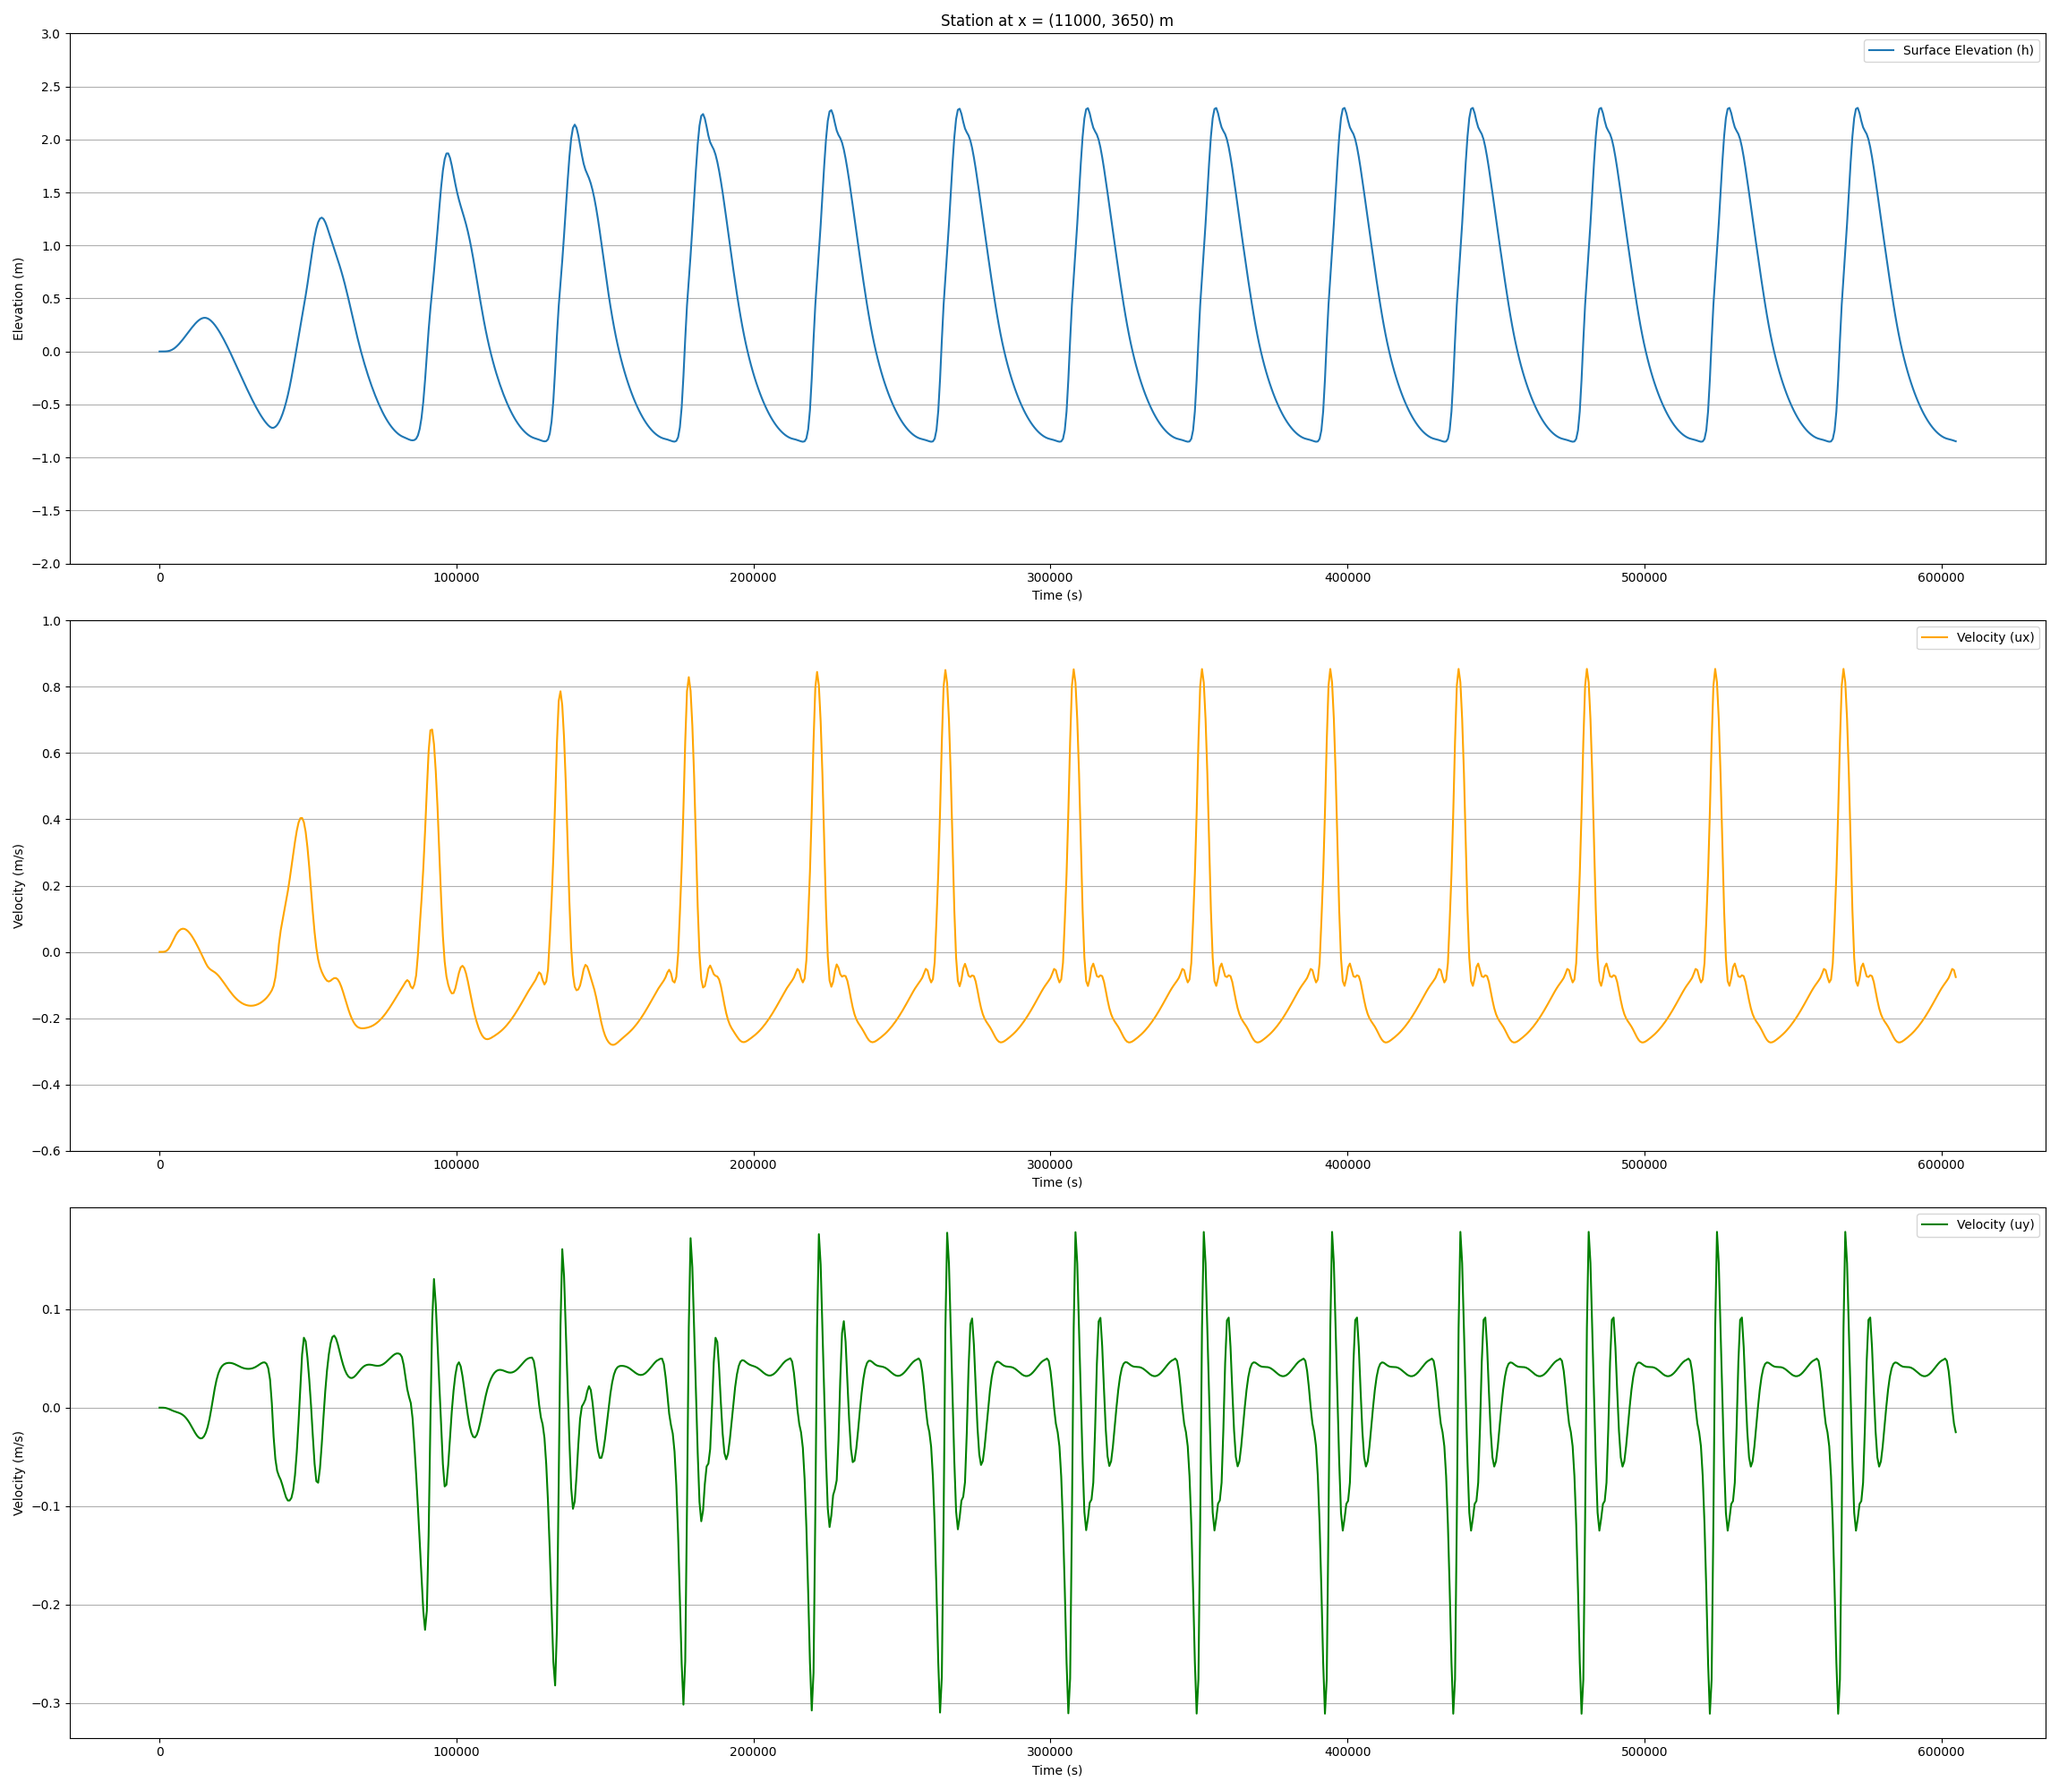
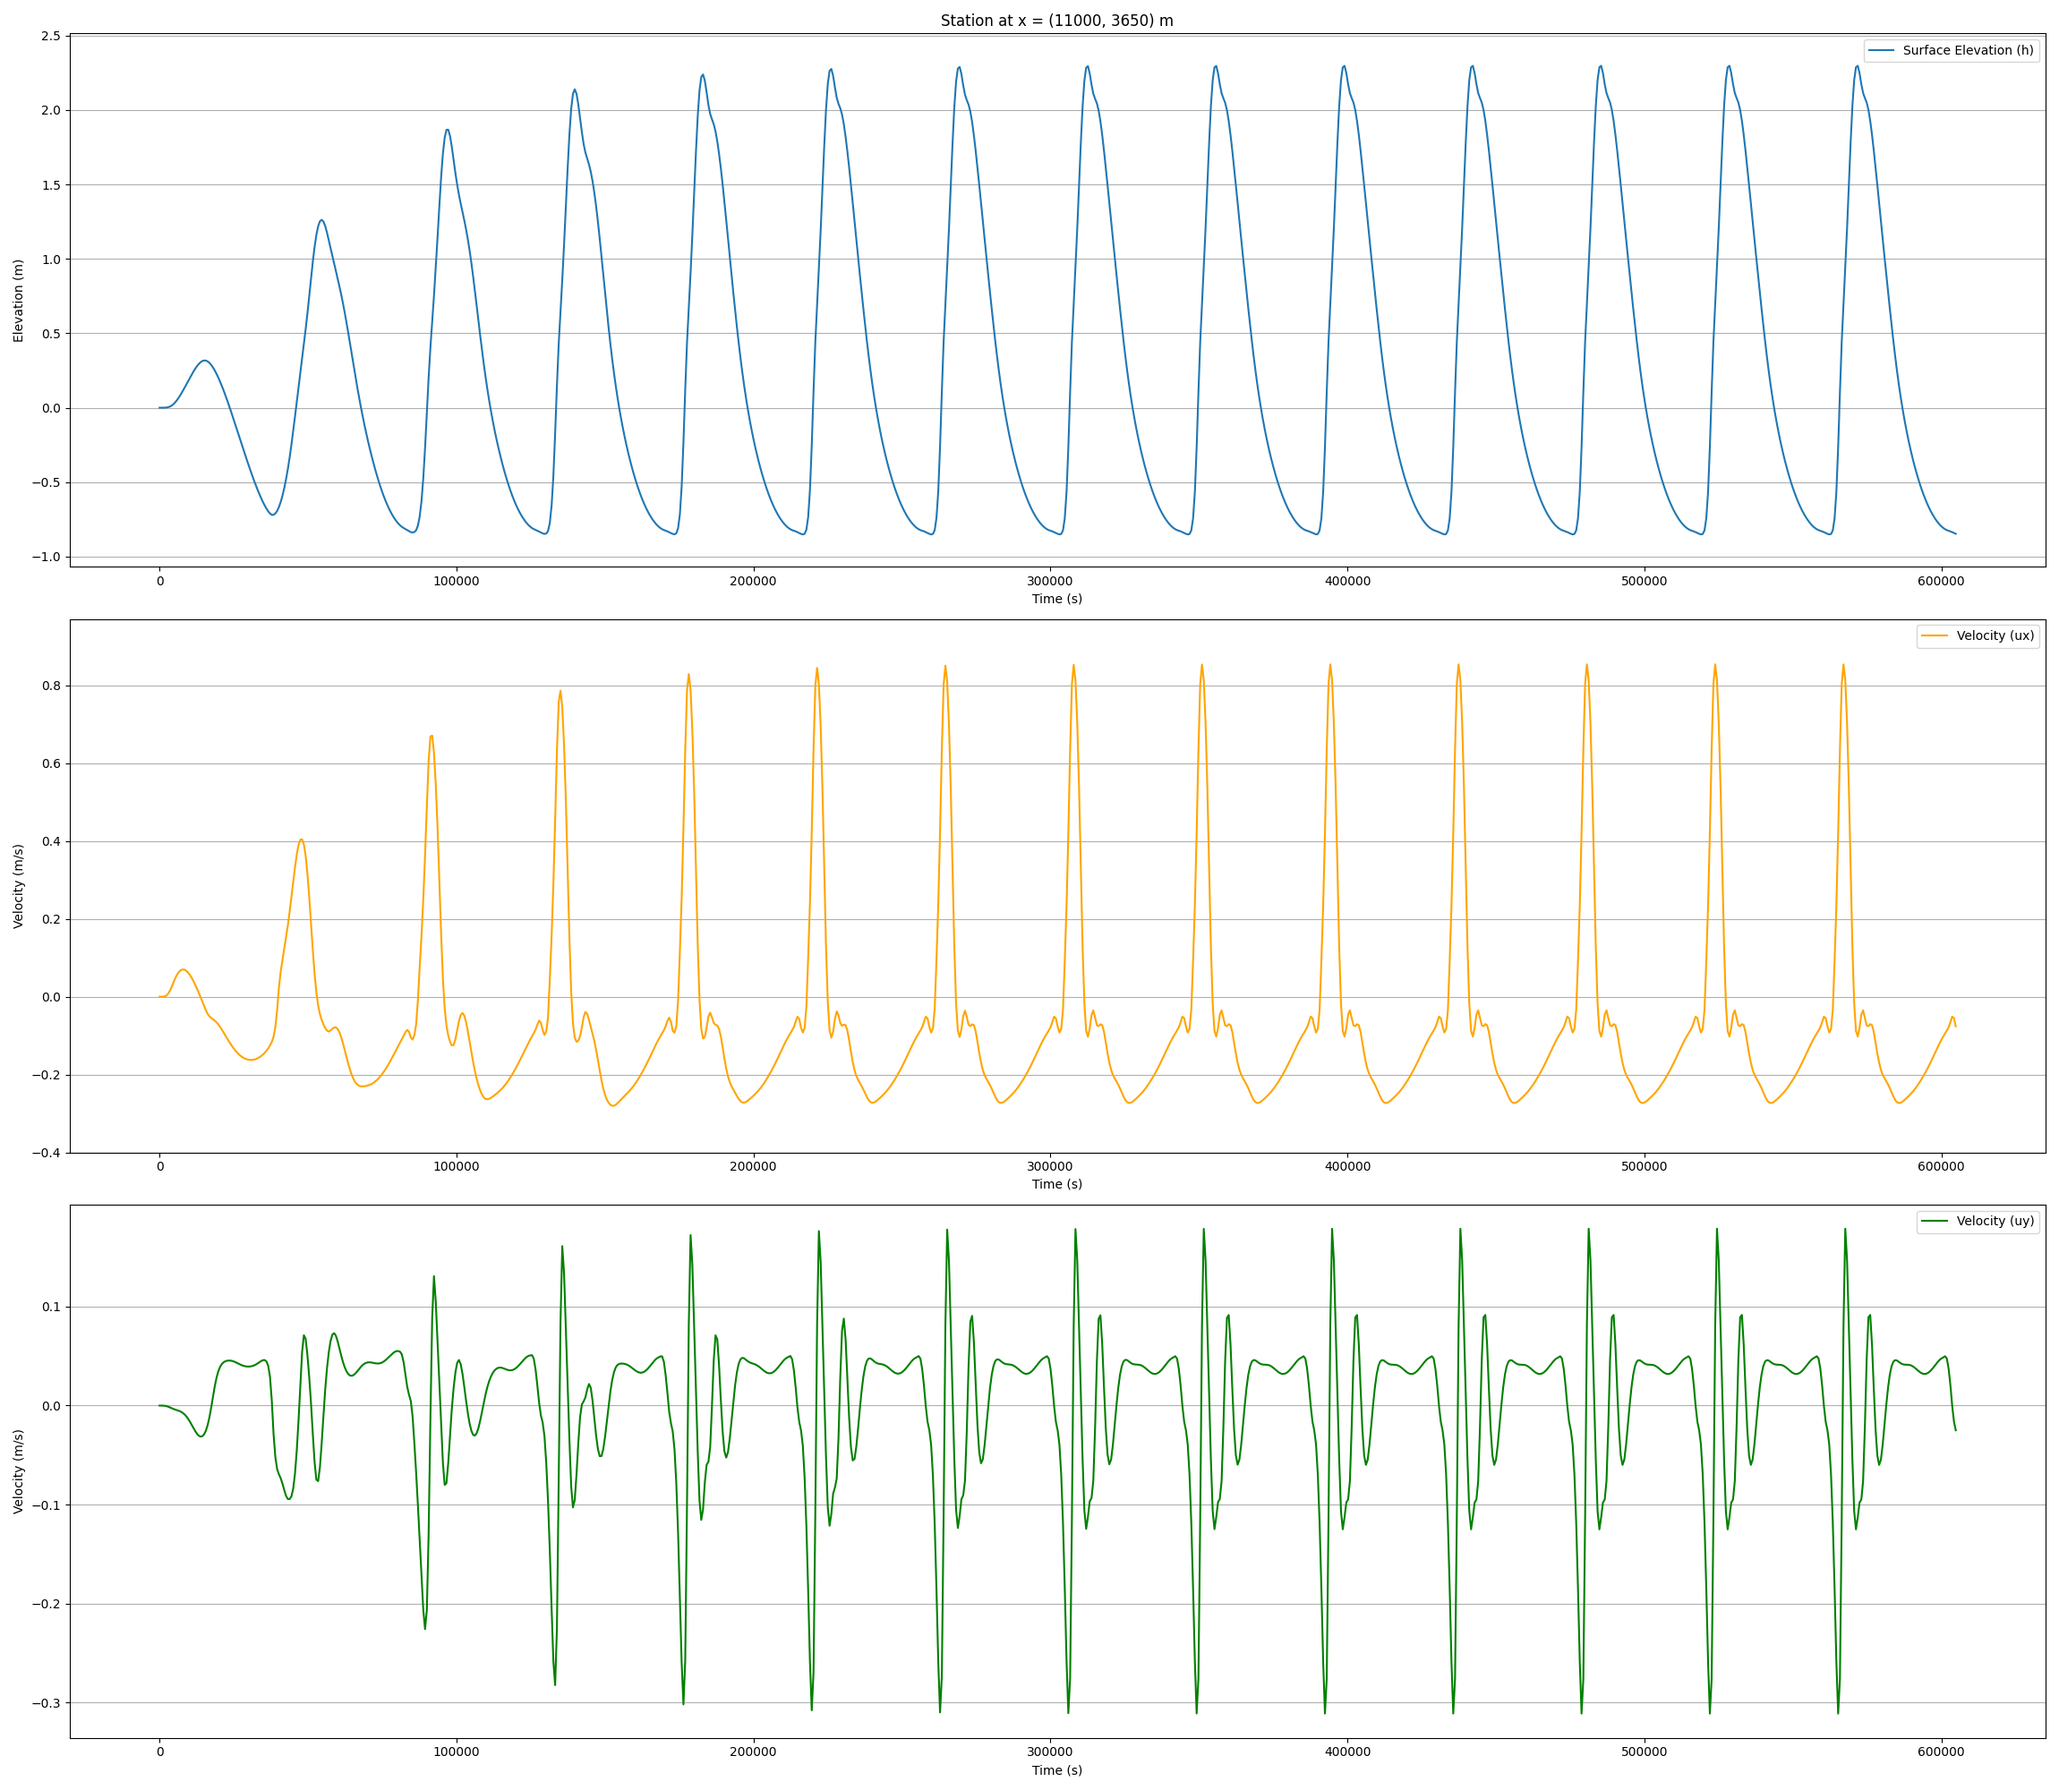
Updated wetdry cg plotting.py and corr images with new ticks

diff --git a/SWEs_2D_SlopedBeachProblem_SWEmniCS_CG/plotting.py b/SWEs_2D_SlopedBeachProblem_SWEmniCS_CG/plotting.py
@@ -2,49 +2,156 @@ import matplotlib.pyplot as plt
 import numpy as np
 
 def plot_station_timeseries(time_series_data, station_coords):
-    print('Creating stations images')
-    # Plot time series for each station
+    """
+    Plots time series data for water surface elevation and velocity components
+    at specified station locations.
+
+    Parameters:
+    - time_series_data: Dictionary containing time series data for each station.
+      Expected format: 
+      {
+        coord1: {"time": [...], "h": [...], "ux": [...], "uy": [...]},
+        coord2: {...}, 
+        ...
+      }
+    - station_coords: List of x-coordinates where data is recorded.
+
+    Saves each station's time series as a PNG image.
+    """
+
+    print('Creating station time series plots')
+
+    # Iterate through each station coordinate
     for coord in station_coords:
         plt.figure(figsize=(23, 20))
+        if coord == (9000, 3650):
+            # Plot surface elevation (h)
+            plt.subplot(3, 1, 1)
+            plt.plot(time_series_data[coord]["time"], time_series_data[coord]["h"], label="Surface Elevation (h)")
+            plt.title(f"Station at x = {coord} m")
+            plt.xlabel("Time (s)")
+            plt.ylabel("Elevation (m)")
+            # plt.yticks(np.arange(np.floor(min(time_series_data[coord]["h"])), 
+            #                      np.ceil(max(time_series_data[coord]["h"])), 0.5))  # Set y-ticks at 0.5 intervals
+            y_min, y_max = plt.ylim()
+            plt.ylim(y_min-0.06, y_max+0.06)
+            plt.yticks(np.arange(-1.5, 3.0, 0.5))
+            plt.grid(axis='y')  # Add grid lines on y-axis
+            plt.legend()
+    
+            # Plot velocity in x-direction (ux)
+            plt.subplot(3, 1, 2)
+            plt.plot(time_series_data[coord]["time"], time_series_data[coord]["ux"], label="Velocity (ux)", color="orange")
+            plt.xlabel("Time (s)")
+            plt.ylabel("Velocity (m/s)")
+            # plt.yticks(np.arange(np.floor(min(time_series_data[coord]["ux"])) + 0.4, 
+            #                      np.ceil(max(time_series_data[coord]["ux"])) + 0.1, 0.2))  # Set y-ticks at 0.2 intervals
+            y_min, y_max = plt.ylim()
+            plt.ylim(y_min-0.06, y_max+0.06)
+            plt.yticks(np.arange(-0.4, 1, 0.2))
+            plt.grid(axis='y')
+            plt.legend()
+    
+            # Plot velocity in y-direction (uy)
+            plt.subplot(3, 1, 3)
+            plt.plot(time_series_data[coord]["time"], time_series_data[coord]["uy"], label="Velocity (uy)", color="green")
+            plt.xlabel("Time (s)")
+            plt.ylabel("Velocity (m/s)")
+            plt.yticks(np.arange(np.floor(min(time_series_data[coord]["uy"])) + 0.7, 
+                                 np.ceil(max(time_series_data[coord]["uy"])) - 0.8, 0.1))  # Set y-ticks at 0.1 intervals
+            plt.grid(axis='y')
+            plt.legend()
+    
+            # Adjust layout and save the plot
+            plt.tight_layout()
+            plt.savefig(f"station_{coord}_timeseries_slopeBeach_DG.png")
+            plt.show()
+        if coord == (11000, 3650):
+            # Plot surface elevation (h)
+            plt.subplot(3, 1, 1)
+            plt.plot(time_series_data[coord]["time"], time_series_data[coord]["h"], label="Surface Elevation (h)")
+            plt.title(f"Station at x = {coord} m")
+            plt.xlabel("Time (s)")
+            plt.ylabel("Elevation (m)")
+            # plt.yticks(np.arange(np.floor(min(time_series_data[coord]["h"])), 
+            #                      np.ceil(max(time_series_data[coord]["h"])), 0.5))  # Set y-ticks at 0.5 intervals
+            y_min, y_max = plt.ylim()
+            plt.ylim(y_min-0.06, y_max+0.06)
+            plt.yticks(np.arange(-1, 3, 0.5))
+            plt.grid(axis='y')  # Add grid lines on y-axis
+            plt.legend()
+    
+            # Plot velocity in x-direction (ux)
+            plt.subplot(3, 1, 2)
+            plt.plot(time_series_data[coord]["time"], time_series_data[coord]["ux"], label="Velocity (ux)", color="orange")
+            plt.xlabel("Time (s)")
+            plt.ylabel("Velocity (m/s)")
+            # plt.yticks(np.arange(np.floor(min(time_series_data[coord]["ux"])) + 0.4, 
+            #                      np.ceil(max(time_series_data[coord]["ux"])) + 0.1, 0.2))  # Set y-ticks at 0.2 intervals
+            y_min, y_max = plt.ylim()
+            plt.ylim(y_min-0.06, y_max+0.06)
+            plt.yticks(np.arange(-0.4, 1.0, 0.2))
+            plt.grid(axis='y')
+            plt.legend()
+    
+            # Plot velocity in y-direction (uy)
+            plt.subplot(3, 1, 3)
+            plt.plot(time_series_data[coord]["time"], time_series_data[coord]["uy"], label="Velocity (uy)", color="green")
+            plt.xlabel("Time (s)")
+            plt.ylabel("Velocity (m/s)")
+            plt.yticks(np.arange(np.floor(min(time_series_data[coord]["uy"])) + 0.7, 
+                                 np.ceil(max(time_series_data[coord]["uy"])) - 0.8, 0.1))  # Set y-ticks at 0.1 intervals
+            plt.grid(axis='y')
+            plt.legend()
+    
+            # Adjust layout and save the plot
+            plt.tight_layout()
+            plt.savefig(f"station_{coord}_timeseries_slopeBeach_DG.png")
+            plt.show()
+        if coord == (13500, 3650):
+            # Plot surface elevation (h)
+            plt.subplot(3, 1, 1)
+            plt.plot(time_series_data[coord]["time"], time_series_data[coord]["h"], label="Surface Elevation (h)")
+            plt.title(f"Station at x = {coord} m")
+            plt.xlabel("Time (s)")
+            plt.ylabel("Elevation (m)")
+            # plt.yticks(np.arange(np.floor(min(time_series_data[coord]["h"])), 
+            #                      np.ceil(max(time_series_data[coord]["h"])), 0.5))  # Set y-ticks at 0.5 intervals
+            y_min, y_max = plt.ylim()
+            plt.ylim(y_min-0.06, y_max+0.06)
+            plt.yticks(np.arange(-0.5, 3.0, 0.5))
+            plt.grid(axis='y')  # Add grid lines on y-axis
+            plt.legend()
+    
+            # Plot velocity in x-direction (ux)
+            plt.subplot(3, 1, 2)
+            plt.plot(time_series_data[coord]["time"], time_series_data[coord]["ux"], label="Velocity (ux)", color="orange")
+            plt.xlabel("Time (s)")
+            plt.ylabel("Velocity (m/s)")
+            # plt.yticks(np.arange(np.floor(min(time_series_data[coord]["ux"])) + 0.4, 
+            #                      np.ceil(max(time_series_data[coord]["ux"])) + 0.1, 0.2))  # Set y-ticks at 0.2 intervals
+            y_min, y_max = plt.ylim()
+            plt.ylim(y_min-0.06, y_max+0.06)
+            plt.yticks(np.arange(-0.2, 1.0, 0.1))
+            plt.grid(axis='y')
+            plt.legend()
+    
+            # Plot velocity in y-direction (uy)
+            plt.subplot(3, 1, 3)
+            plt.plot(time_series_data[coord]["time"], time_series_data[coord]["uy"], label="Velocity (uy)", color="green")
+            plt.xlabel("Time (s)")
+            plt.ylabel("Velocity (m/s)")
+            # plt.yticks(np.arange(np.floor(min(time_series_data[coord]["uy"])) + 0.7, 
+            #                      np.ceil(max(time_series_data[coord]["uy"])) - 0.8, 0.1))  # Set y-ticks at 0.1 intervals
+            y_min, y_max = plt.ylim()
+            plt.ylim(y_min-0.06, y_max+0.06)
+            plt.yticks(np.arange(-0.1, 0.3, 0.1))
+            plt.grid(axis='y')
+            plt.legend()
+    
+            # Adjust layout and save the plot
+            plt.tight_layout()
+            plt.savefig(f"station_{coord}_timeseries_slopeBeach_CG.png")
+            plt.show()
 
-        # Plot surface elevation
-        plt.subplot(3, 1, 1)
-        plt.plot(time_series_data[coord]["time"], time_series_data[coord]["h"], label="Surface Elevation (h)")
-        plt.title(f"Station at x = {coord} m")
-        plt.xlabel("Time (s)")
-        plt.ylabel("Elevation (m)")
-
-        # Set y-ticks at unit intervals and enable grid
-        y_min, y_max = plt.ylim()  # Get current y-limits
-        plt.yticks(np.arange(np.floor(y_min), np.ceil(y_max) + 0.5, 0.5))  # Set y-ticks at unit intervals
-        plt.grid(axis='y')  # Add grid lines for y-axis only
-        plt.legend()
-
-        # Plot velocity in x-direction
-        plt.subplot(3, 1, 2)
-        plt.plot(time_series_data[coord]["time"], time_series_data[coord]["ux"], label="Velocity (ux)", color="orange")
-        plt.xlabel("Time (s)")
-        plt.ylabel("Velocity (m/s)")
-
-        # Set y-ticks at unit intervals and enable grid
-        y_min, y_max = plt.ylim()  # Get current y-limits
-        plt.yticks(np.arange(np.floor(y_min) + 0.4, np.ceil(y_max) + 0.1, 0.2))  # Set y-ticks at unit intervals
-        plt.grid(axis='y')  # Add grid lines for y-axis only
-        plt.legend()
-
-        # Plot velocity in y-direction
-        plt.subplot(3, 1, 3)
-        plt.plot(time_series_data[coord]["time"], time_series_data[coord]["uy"], label="Velocity (uy)", color="green")
-        plt.xlabel("Time (s)")
-        plt.ylabel("Velocity (m/s)")
-
-        # Set y-ticks at unit intervals and enable grid
-        y_min, y_max = plt.ylim()  # Get current y-limits
-        plt.yticks(np.arange(np.floor(y_min) + 0.7, np.ceil(y_max) - 0.8, 0.1))  # Set y-ticks at unit intervals
-        plt.grid(axis='y')  # Add grid lines for y-axis only
-        plt.legend()
-
-        plt.tight_layout()
-        plt.savefig(f"station_{coord}_timeseries_slopeBeach_CG.png")  # Save plot as image
-        plt.show()
-    print('Successfully created stations images')
+    print('Successfully created and saved station time series plots')
